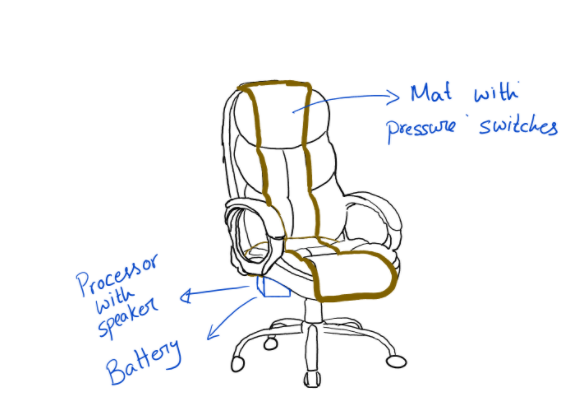
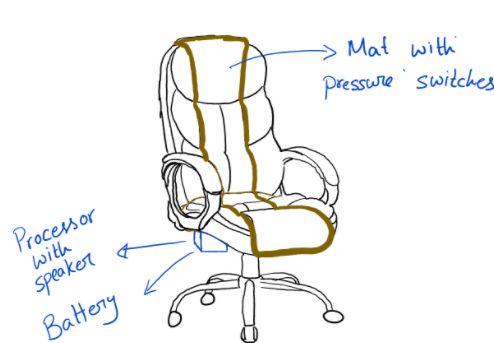
.

diff --git a/index.html b/index.html
@@ -6,7 +6,7 @@
 -->
 <html>
 	<head>
-		<title>Directive by HTML5 UP</title>
+		<title>Under Pressure By LC10A</title>
 		<meta charset="utf-8" />
 		<meta name="viewport" content="width=device-width, initial-scale=1, user-scalable=no" />
 		<link rel="stylesheet" href="assets/css/main.css" />
@@ -17,8 +17,9 @@
 			<div id="header">
 				<span class="logo icon fa-paper-plane"></span>
 				<h1>The Under Pressure Posture Corrector</h1>
-				<p>The posture corrector that's got your back!
+				<p style="font-style: italic">The posture corrector that's got your back!</p>
 				<br />
+				<p>
 				LC10A
 				<br />
 				Bilal Dawood
@@ -50,24 +51,26 @@
 
 				<div class="box alt container">
 					<section class="feature left">
-						<a class="image solid fa-signal"><img src="images/enel300_productDesign.png" alt="" /></a>
+						<a class="image solid fa-signal"><img src="images/enel300chair3.jpg" alt="" style= "height: 100%; width: 100%"/></a>
 						<div class="content">
-							<h3>The Initial Design</h3>
-							<p>This design is what we would ideally have for our users. Just a simple and comfy mat that goes nicely onto your chair.</p>
+							<h3>The Overall Design</h3>
+							<p>This design is what we would ideally have for our users. Just a simple and comfy mat that goes nicely onto your chair. It also would have the main circuitry in a casing
+							which is securely stuck underneath the chair.</p>
 						</div>
 					</section>
 					<section class="feature right">
-						<a href="#" class="image icon solid fa-code"><img src="images/pic02.jpg" alt="" /></a>
+						<a href="#" class="image solid fa-code"><img src="images/Project_schematic_full.jpg" alt="" style= "height: 100%; width: 100%"/></a>
 						<div class="content">
-							<h3>The Second Thing</h3>
-							<p>Vitae natoque dictum etiam semper magnis enim feugiat amet curabitur tempor orci penatibus. Tellus erat mauris ipsum fermentum etiam vivamus eget. Nunc nibh morbi quis fusce lacus.</p>
+							<h3>The Circuit Design</h3>
+							<p>The power supply uses a 5V regulator. The circuit consist of resistive sensors and a voltage divider in order for the device to tell if the user's seating position needs to be adjusted. And the given speaker is setup to output the audio cues when  </p>
 						</div>
 					</section>
 					<section class="feature left">
-						<a href="#" class="image icon solid fa-mobile-alt"><img src="images/pic03.jpg" alt="" /></a>
+						<a href="#" class="image solid fa-mobile-alt"><img src="images/geoffbox.jpg" alt="" style= "height: 100%; width: 100%" /></a>
 						<div class="content">
-							<h3>The Third Thing</h3>
-							<p>Vitae natoque dictum etiam semper magnis enim feugiat amet curabitur tempor orci penatibus. Tellus erat mauris ipsum fermentum etiam vivamus eget. Nunc nibh morbi quis fusce lacus.</p>
+							<h3>The Product Casing</h3>
+							<p>The casing is a 3D printed cuboid that contains all the main circuitry. This would be secured to the bottom of the user's chair. And the resistive sensors would protrude
+							and be embedded safely in an ideally comfortable yoga mat sort of material that would be placed onto the user's chair.</p>
 						</div>
 					</section>
 				</div>
@@ -216,8 +219,8 @@
 				-->
 
 				<footer class="major container medium">
-					<h3>Get shady with science</h3>
-					<p>Vitae natoque dictum etiam semper magnis enim feugiat amet curabitur tempor orci penatibus. Tellus erat mauris ipsum fermentum etiam vivamus.</p>
+					<h3>We're here to make sure you day goes by just spine!</h3>
+					<p>And please remember to sit up straight!</p>
 					<ul class="actions special">
 						<li><a href="#" class="button">Join our crew</a></li>
 					</ul>
